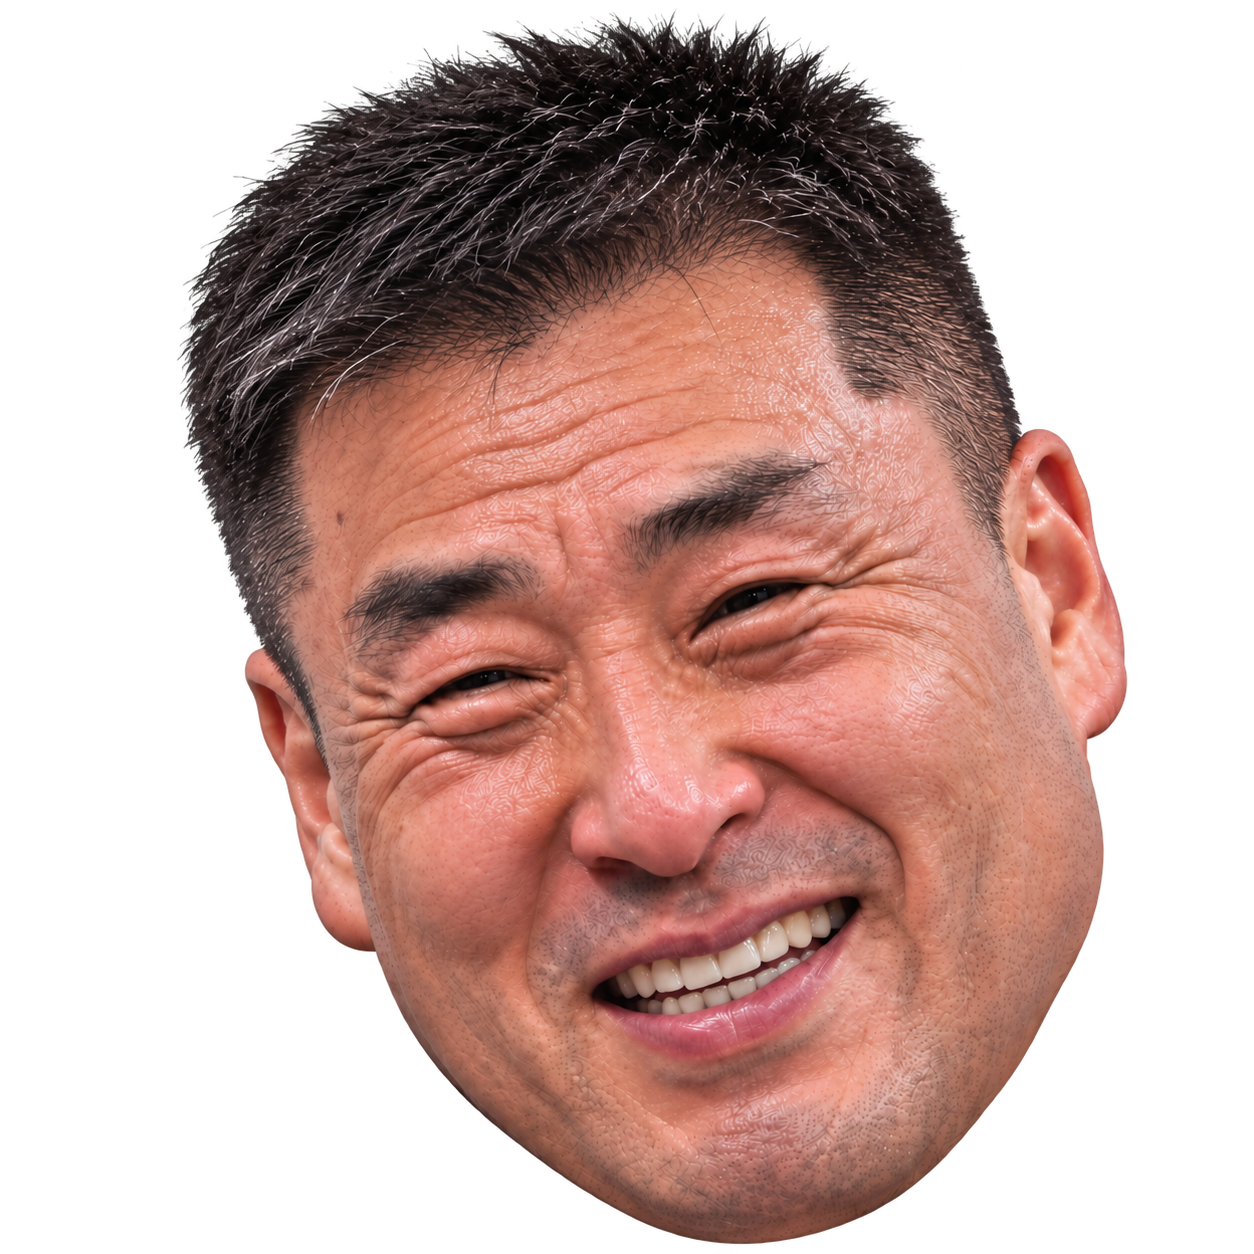
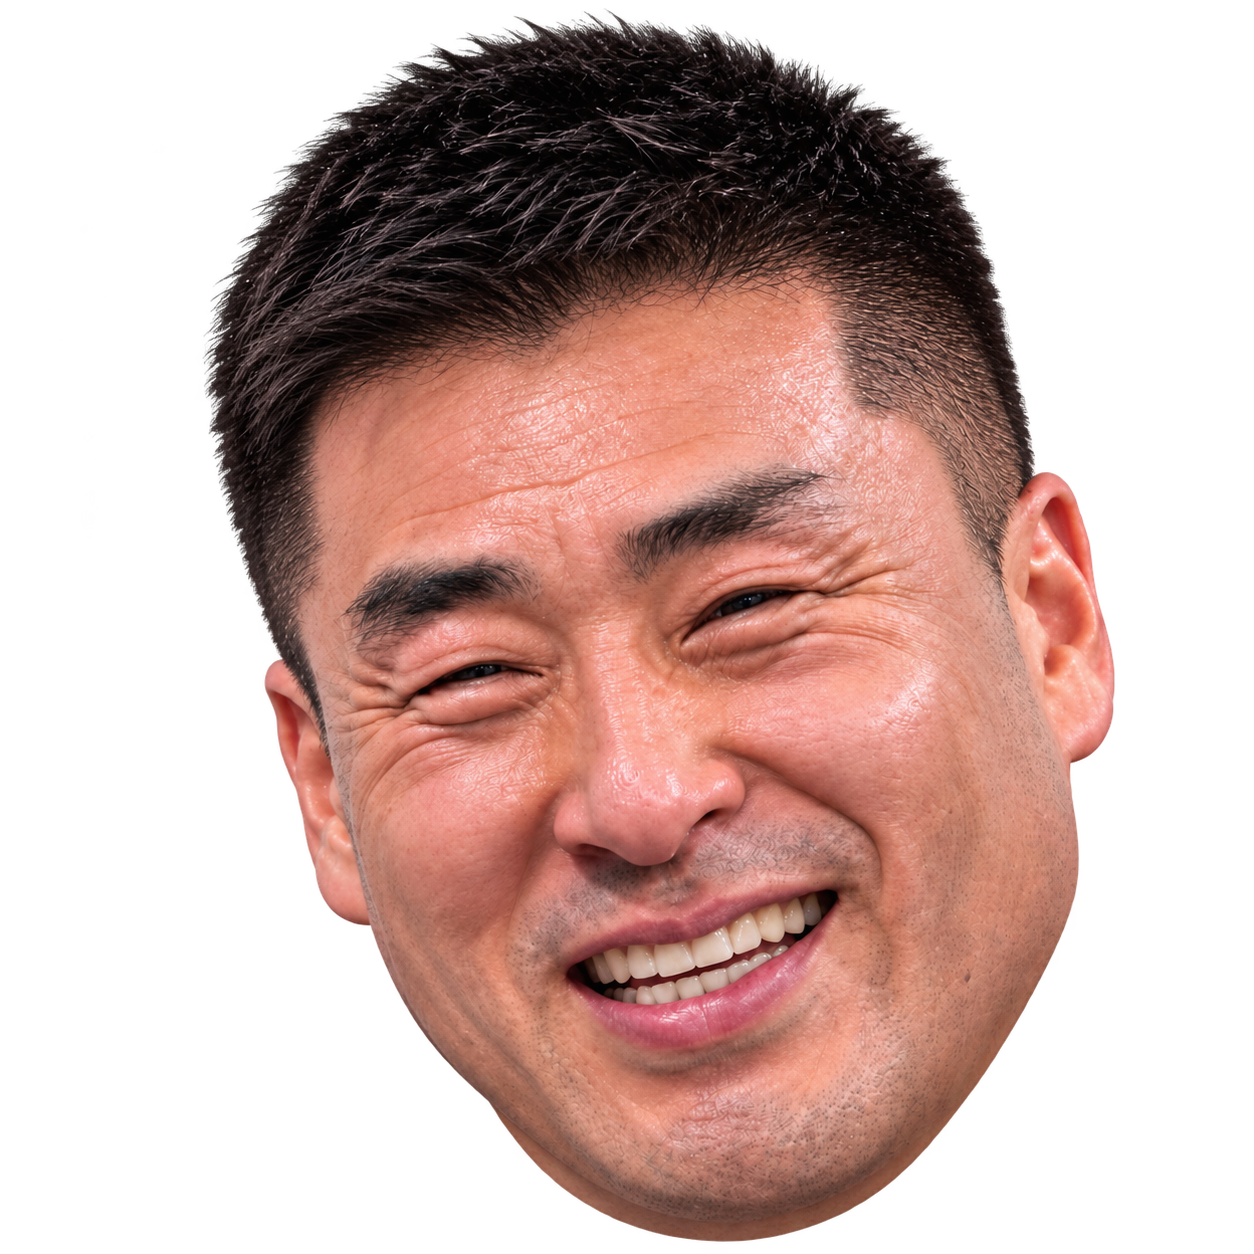
Refresh Kumho portrait and body shape

Changed region(s): [[0.1244, 0.0, 0.9019, 0.9952]]

diff --git a/index.html b/index.html
@@ -431,7 +431,7 @@ seohyun:{name:'일병3호봉',nick:'일병3호봉',kit:{name:'SEOHYUN',color:'#f
 jongryeong:{name:'빽종령',nick:'빽종령',kit:{name:'BACK',color:'#ffd166'},face:'jongryeong',faceFit:{h:60,b:24,cx:.5},bhSmash:.1,bhBlock:.05,fhFloat:.05,ceremony:'이게 빽종령~ 😏',split:true,stanceK:1.1,crouchK:.12,shirt:'#5a3d8f',sleeve:'#5a3d8f',collar:'#ffd166',pants:'#15151c',shorts:true,hair:'#120d0a',skin:'#efc3a2',skinShade:'#d39d7e'},
 // 금호탁구장관장: veteran club owner with a smiling portrait, red club polo, Japanese penholder. Every return goes up as a lob
 // (a chance ball for the other side, but 20% harder to put away), a chance ball coming to him is smashed, serves are always topspin.
-kumho:{name:'금호탁구장관장',nick:'금호관장',face:'kumho',faceFit:{h:56,b:25,cx:.5},belly:1.25,kit:{name:'KUMHO',color:'#ffd166'},lobber:true,topServe:true,pen:true,ceremony:'이게 6부에서 20년 있던 실력? 😎',split:true,stanceK:1.05,crouchK:.1,shirt:'#b3262d',sleeve:'#b3262d',collar:'#ffd166',pants:'#2b2b33',hair:'#a8a8ad',skin:'#e7b796',skinShade:'#c99474'},
+kumho:{name:'금호탁구장관장',nick:'금호관장',face:'kumho',faceFit:{h:60,b:24,cx:.5},kit:{name:'KUMHO',color:'#ffd166'},lobber:true,topServe:true,pen:true,ceremony:'이게 6부에서 20년 있던 실력? 😎',split:true,stanceK:1.05,crouchK:.1,shirt:'#b3262d',sleeve:'#b3262d',collar:'#ffd166',pants:'#2b2b33',hair:'#a8a8ad',skin:'#e7b796',skinShade:'#c99474'},
 // 충대 화잡이 (drawn, no photo): forehand drives carry x1.5 spin and x1.3 speed, but 10% of serves are faults.
 chungdae:{name:'충대 화잡이',nick:'화잡이',kit:{name:'CNU',color:'#7fc4ff'},fhDrive:{spin:1.5,speed:1.3},serveMiss:.1,serveFloat:.1,bhFloat:.1,ceremony:'오~~ 👏',split:true,stanceK:1.15,crouchK:.12,shirt:'#1b4fa0',sleeve:'#1b4fa0',collar:'#7fc4ff',pants:'#15171f',shorts:true,hair:'#1a1310',skin:'#efc6a6',skinShade:'#d3a284'},
 // 송스타, face from the user's photo (thick black mop, round face): defender with the defense racket. Backhand long chops (PERFECT low & fast, opponent errs +5%;
